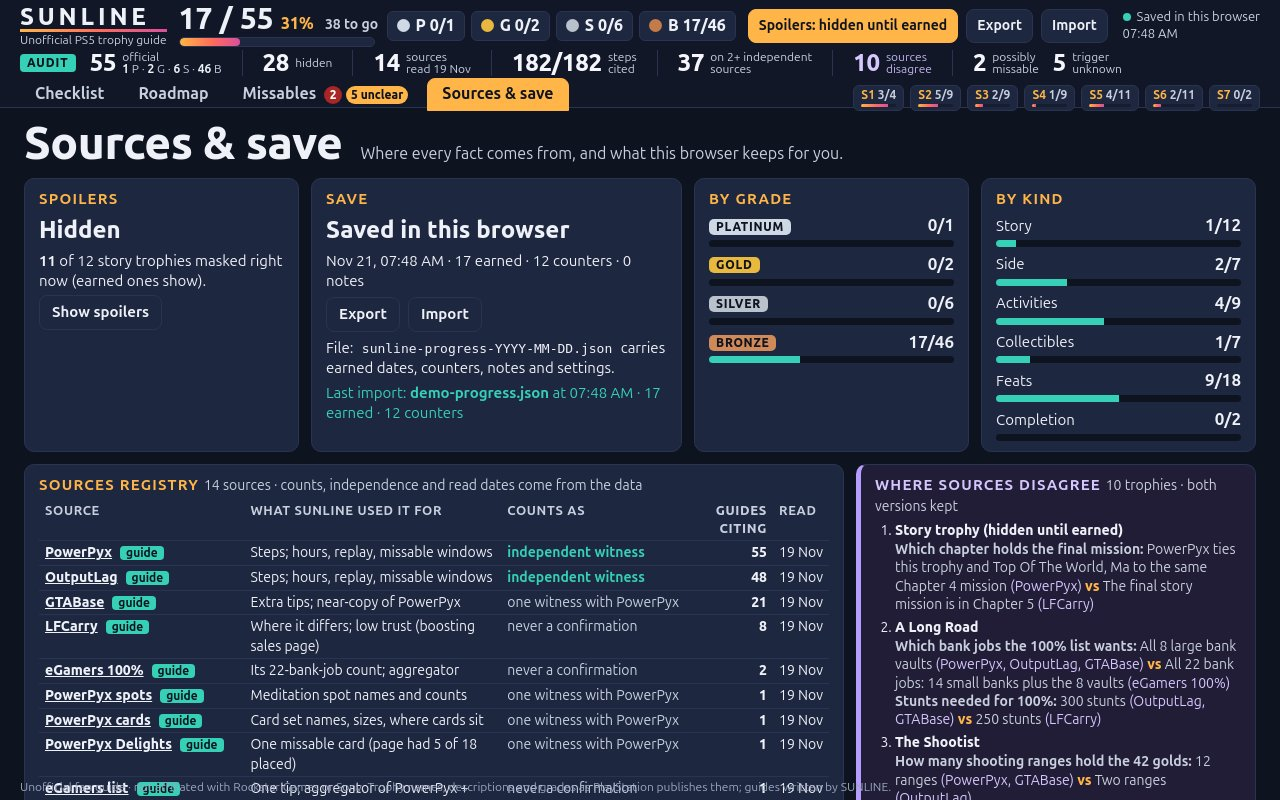
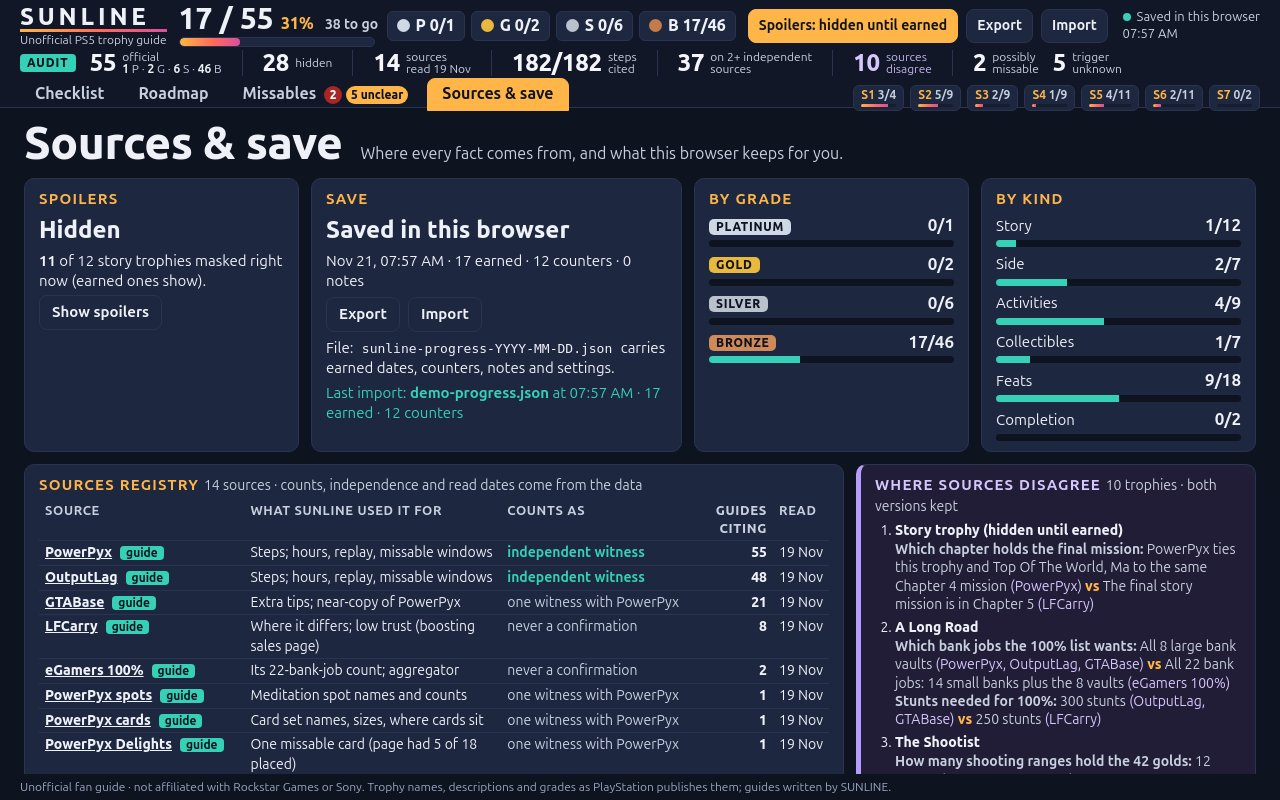
SUNLINE G10 1: nothing hidden under the footer. On the Sources & save page the .view becomes its own scroll area (overflow-y auto, 8 px bottom room) that ends above the footer, and the footer gets an opaque page background stacked above content, so the registry's last row is cut cleanly by the scrol

Changed region(s): [[0.0, 0.9688, 0.9062, 1.0], [0.9688, 0.9688, 1.0, 1.0], [0.3125, 0.3125, 0.3438, 0.3438]]

diff --git a/app/css/sunline.css b/app/css/sunline.css
@@ -194,7 +194,7 @@ code { font-size: 13px; background: var(--raised); padding: 1px 5px; border-radi
   height: calc(100vh - var(--head-h) - var(--foot-h));
 }
 
-body[data-route="save"] .view { grid-template-rows: auto 1fr; }
+body[data-route="save"] .view { grid-template-rows: auto 1fr; overflow-y: auto; padding-bottom: 8px; }
 
 body[data-route="save"] .banner { grid-column: 1 / -1; }
 
@@ -882,7 +882,8 @@ body[data-route="roadmap"] .view, body[data-route="missables"] .view { grid-temp
 
 .toast.show { opacity: 1; transform: translateX(-50%); }
 
-.footer { height: var(--foot-h); padding: 5px 20px 0; font-size: 12px; color: var(--muted); white-space: nowrap; overflow: hidden; }
+.footer { position: relative; z-index: 1; height: var(--foot-h); padding: 5px 20px 0; font-size: 12px; color: var(--muted);
+  background: var(--page); white-space: nowrap; overflow: hidden; }
 
 /* ---------- print: the checklist as a paper list (black on white, every row, no controls) ---------- */
 @media print {
